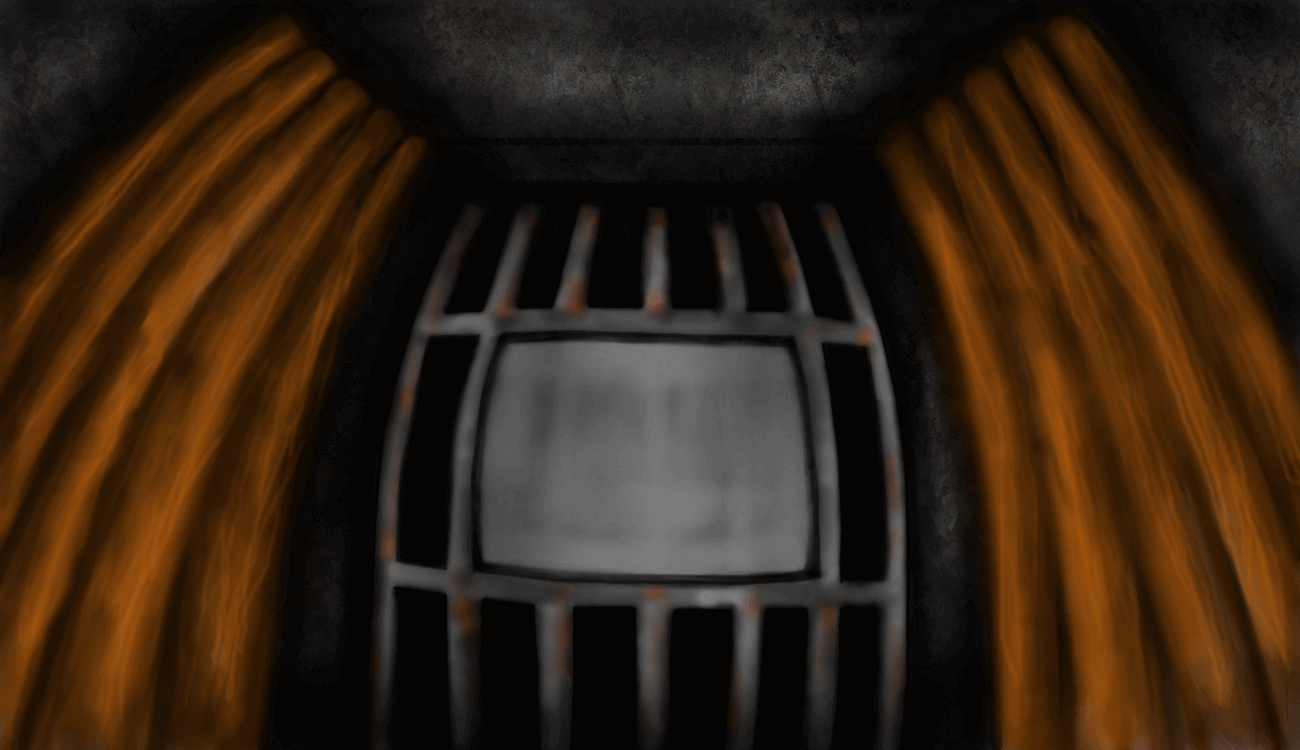
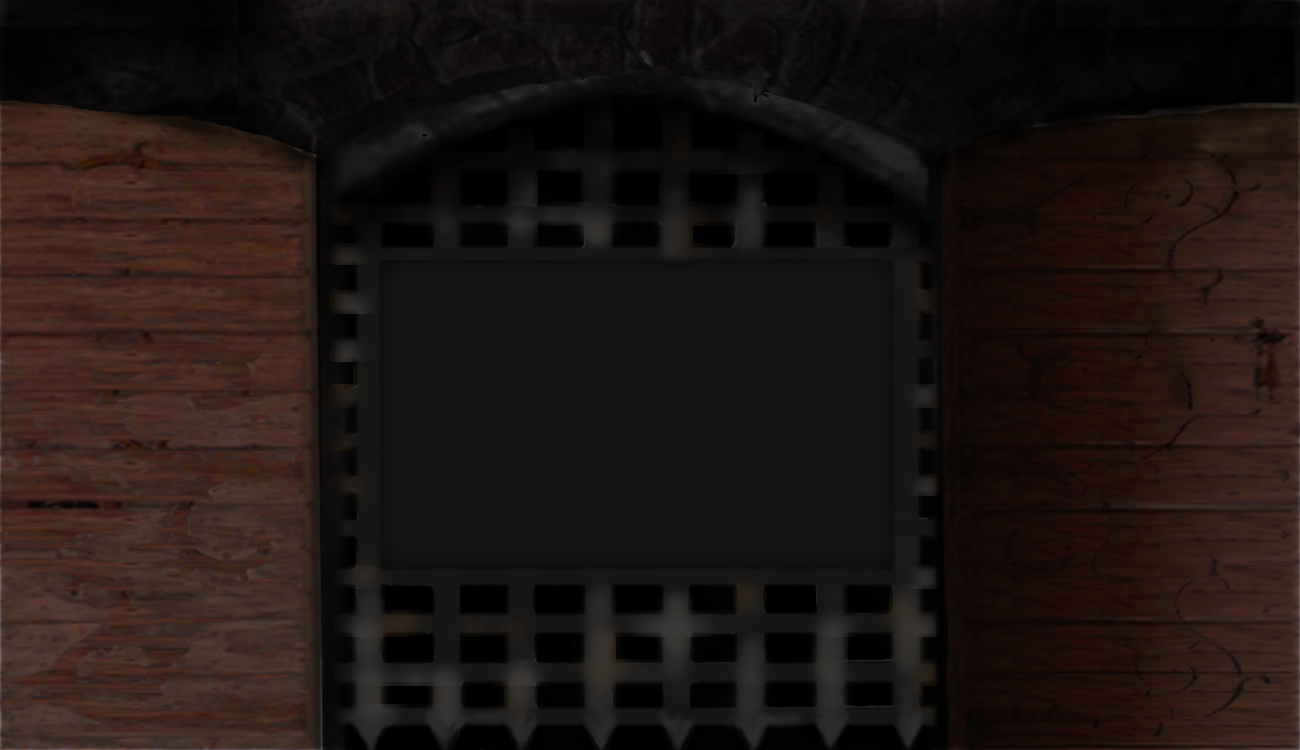
feat(select-heroes): use new gate as background

diff --git a/app/game/create/widgets/select-heroes.html b/app/game/create/widgets/select-heroes.html
@@ -42,16 +42,10 @@
          height="100%"
          viewBox="0 0 1300 750"
          preserveAspectRatio="none">
-    <image overflow="visible" width="1300" height="750" xlink:href="/assets/game/backgrounds/heroes-selection.png">
-    </image>
-    <rect fill="none" width="1300" height="750"/>
-    <polygon id="select-heroes-gate" fill="none" points="367.667,748.999 367.667,670.667 373.667,583.333 378.333,494.663 385.667,434.662 394.333,395.328
-	    407,343.329 421,303.33 436.333,266.664 453.667,229.998 469.667,193.331 831,193.331 841.668,219.998 857.002,261.331
-	    869.668,296.665 879.668,332.665 890.335,371.997 896.335,408.664 900.335,443.33 905.002,484.663 905.002,522.663 905.002,585.996
-	    905.002,642.662 905.002,675.995 904,706.625 899.125,748.999 " />
-    <polygon id="select-heroes-plate" fill="none" points="505.002,344 497.668,367.333 489.002,406.666 485.002,438.666 481.668,467.333 481.668,496
-	    481.668,529 481.668,546.25 482.75,561.5 531.667,568.667 589,572.667 639.667,572.667 679.667,574.001 720.667,574.001
-	    744,574.001 776.334,572.667 802.667,570.667 807.667,549.667 809.667,511.667 806.667,475.001 804,434.666 798,393.998
-	    790.334,364.333 784.334,347.333 769.667,347 721,345.333 682.334,344 632.333,344 579,341.333 548,341.333 525.667,343 "/>
+        <image overflow="visible" width="1300" height="750" xlink:href="/assets/game/backgrounds/heroes-selection.png"  transform="matrix(0.9999 0 0 0.9999 0 0)">
+        </image>
+        <rect x="19.667" y="164.667" fill="none" width="277.333" height="560"/>
+        <rect x="981" y="164.667" fill="none" width="294.667" height="560"/>
+        <rect id="select-heroes-plate" x="383.667" y="264.667" fill="none" width="502.667" height="296"/>
     </svg>
 </template>

diff --git a/app/game/create/widgets/select-heroes.js b/app/game/create/widgets/select-heroes.js
@@ -81,8 +81,13 @@ export class AotSelectHeroesCustomElement {
     resize(elts) {
         let selectForm = elts[0];
         let plate = elts[1];
+        let plateBoundingClientRect = plate.getBoundingClientRect();
 
-        selectForm.style.top = plate.getBoundingClientRect().top + 'px';
+        selectForm.style.top = plateBoundingClientRect.top +
+            plateBoundingClientRect.height / 2 -
+            selectForm.getBoundingClientRect().height / 2 -
+            20 +
+            'px';
         selectForm.style.left = plate.getBoundingClientRect().left + 'px';
         selectForm.style.height = plate.getBoundingClientRect().height + 'px';
         selectForm.style.width = plate.getBoundingClientRect().width + 'px';

diff --git a/style/game/create.css b/style/game/create.css
@@ -22,8 +22,13 @@ html, body {
 
 #select-heroes-form {
     position: absolute;
+    color: white;
     /* Hide on page load */
     top: -500px;
+}
+
+#select-heroes-form p {
+    color: white;
 }
 
 #select-heroes-bg {
@@ -31,8 +36,8 @@ html, body {
 }
 
 .select-hero img {
-	max-width: 25%;
-    max-height: 150px;
+    max-width: 23%;
+    margin-top: 1%;
 }
 
 .selected-hero {
@@ -44,8 +49,6 @@ html, body {
 
 img.hero-img {
     display: inline-block;
-    width: 500px;
-    height: 281px;
     overflow: hidden;
     background: #333;
     -webkit-transition: all .3s ease-in-out;
